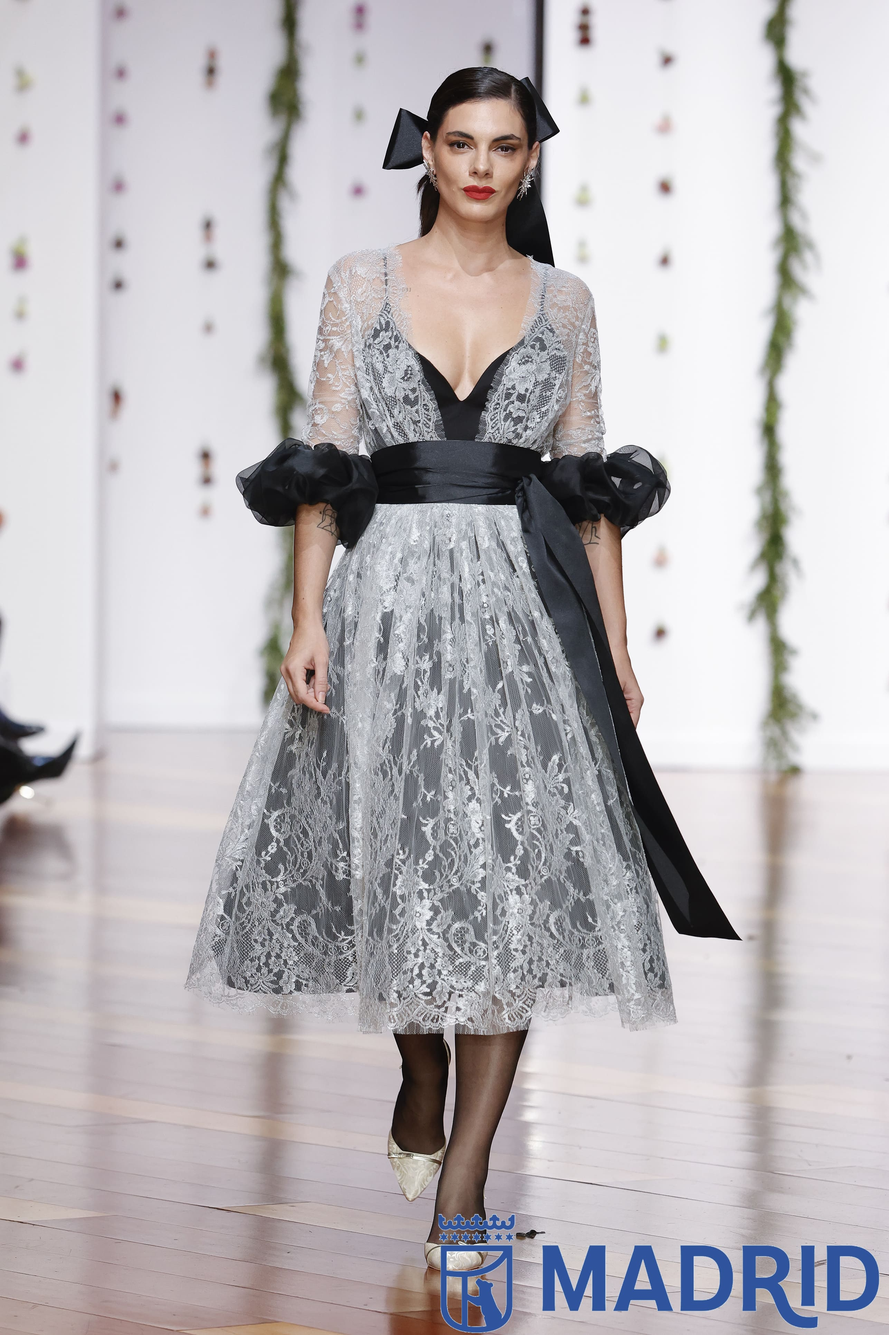
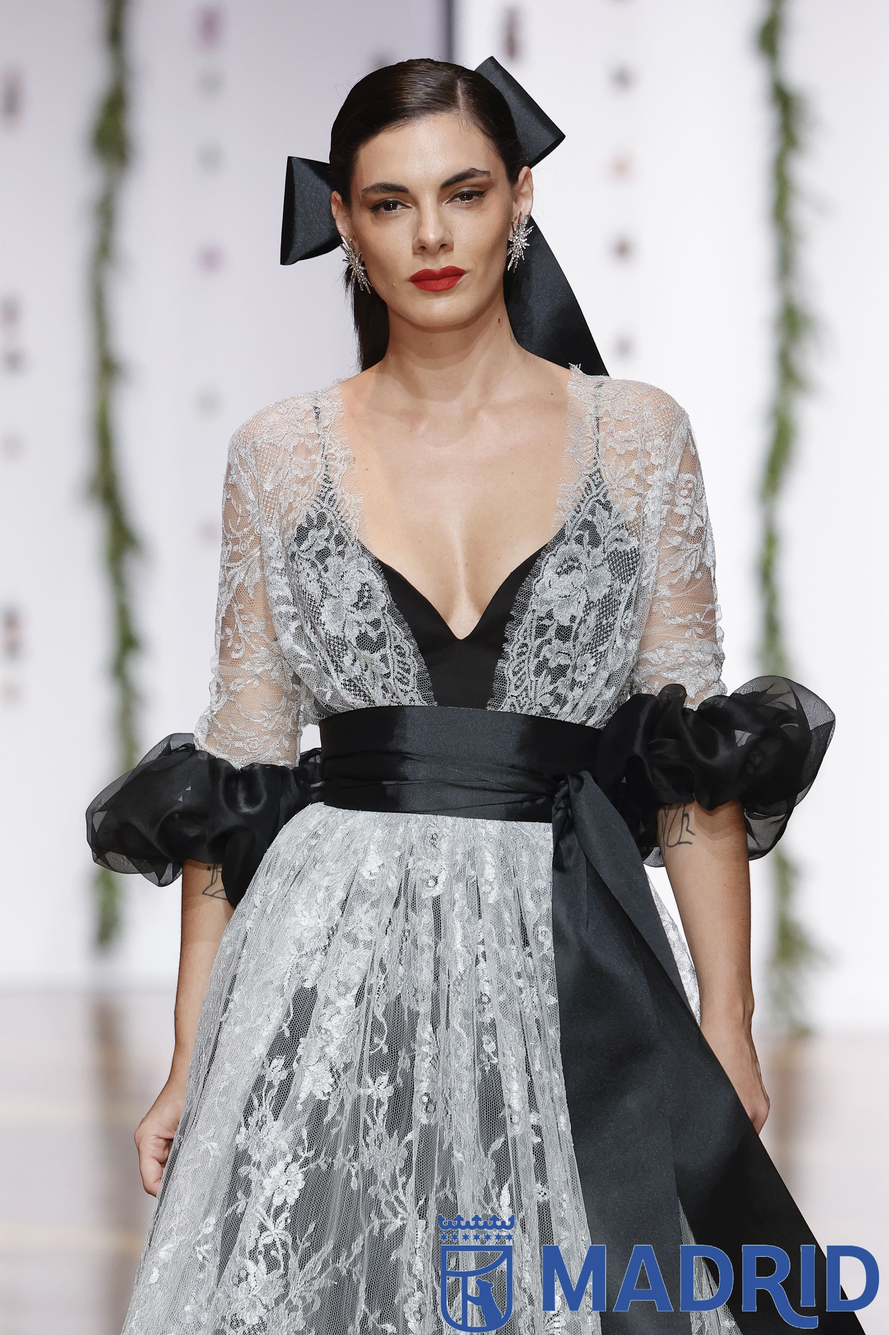
updated photo

diff --git a/assets/js/detalle.js b/assets/js/detalle.js
@@ -115,14 +115,31 @@ function loadDressIntoShowcase(dress) {
   }
 
   // 3. Resolver imágenes (ruta_imagen_1, ruta_imagen_2, ruta_imagen_3)
-  const img1 = resolveDetailImageUrl(dress.ruta_imagen_1);
-  const img2 = resolveDetailImageUrl(dress.ruta_imagen_2 || dress.ruta_imagen_1);
-  const img3 = resolveDetailImageUrl(dress.ruta_imagen_3 || dress.ruta_imagen_1);
+  const raw1 = dress.ruta_imagen_1 || '';
+  const raw2 = dress.ruta_imagen_2 || '';
+  const raw3 = dress.ruta_imagen_3 || '';
+
+  // Determinar vista trasera y zoom según convenciones del atelier (002 = zoom / detalle, 003 = trasera / contra parte)
+  let rawTrasera = raw3 || raw2 || raw1;
+  let rawZoom = raw2 || raw3 || raw1;
+
+  if (raw2.includes('003') || raw2.toLowerCase().includes('trasera') || raw2.toLowerCase().includes('back') || raw2.toLowerCase().includes('espalda')) {
+    rawTrasera = raw2;
+    rawZoom = raw3 || raw2;
+  } else if (raw3.includes('003') || raw3.toLowerCase().includes('trasera') || raw3.toLowerCase().includes('back') || raw3.toLowerCase().includes('espalda') ||
+             raw2.includes('002') || raw2.toLowerCase().includes('zoom') || raw2.toLowerCase().includes('detalle')) {
+    rawTrasera = raw3;
+    rawZoom = raw2;
+  }
+
+  const imgDelantera = resolveDetailImageUrl(raw1);
+  const imgTrasera = resolveDetailImageUrl(rawTrasera);
+  const imgZoom = resolveDetailImageUrl(rawZoom);
 
   // 4. Imagen principal grande (sin pie de foto)
   const mainImg = document.getElementById('main-dress-image');
   if (mainImg) {
-    mainImg.src = img1;
+    mainImg.src = imgDelantera;
     mainImg.alt = `${dressName} - Vista Principal`;
     mainImg.onerror = function() {
       this.onerror = null;
@@ -130,21 +147,21 @@ function loadDressIntoShowcase(dress) {
     };
   }
 
-  // 5. Miniaturas interactivas (3 imágenes reducidas: DELANTERA, ZOOM y TRASERA)
+  // 5. Miniaturas interactivas (3 imágenes reducidas: DELANTERA, TRASERA y ZOOM)
   const thumbsContainer = document.getElementById('thumbnails-container');
   if (thumbsContainer) {
     thumbsContainer.innerHTML = `
-      <button class="thumb-btn active" onclick="switchLargeImage('${img1}', this)" title="Ver vista delantera">
-        <img src="${img1}" alt="Vista delantera" onerror="this.src='../assets/images/romance/MARIA_DIEZMA_001.jpg'">
+      <button class="thumb-btn active" onclick="switchLargeImage('${imgDelantera}', this)" title="Ver vista delantera">
+        <img src="${imgDelantera}" alt="Vista delantera" onerror="this.src='../assets/images/romance/MARIA_DIEZMA_001.jpg'">
         <span class="thumb-caption">DELANTERA</span>
       </button>
-      <button class="thumb-btn" onclick="switchLargeImage('${img2}', this)" title="Ver zoom del vestido">
-        <img src="${img2}" alt="Vista zoom" onerror="this.src='../assets/images/romance/MARIA_DIEZMA_002.jpg'">
-        <span class="thumb-caption">ZOOM</span>
-      </button>
-      <button class="thumb-btn" onclick="switchLargeImage('${img3}', this)" title="Ver vista trasera">
-        <img src="${img3}" alt="Vista trasera" onerror="this.src='../assets/images/romance/MARIA_DIEZMA_003.jpg'">
+      <button class="thumb-btn is-contraparte" onclick="switchLargeImage('${imgTrasera}', this)" title="Ver vista trasera">
+        <img src="${imgTrasera}" alt="Vista trasera" onerror="this.src='../assets/images/romance/MARIA_DIEZMA_003.jpg'">
         <span class="thumb-caption">TRASERA</span>
+      </button>
+      <button class="thumb-btn" onclick="switchLargeImage('${imgZoom}', this)" title="Ver zoom del vestido">
+        <img src="${imgZoom}" alt="Vista zoom" onerror="this.src='../assets/images/romance/MARIA_DIEZMA_002.jpg'">
+        <span class="thumb-caption">ZOOM</span>
       </button>
     `;
   }

diff --git a/src/views/DetalleView.vue b/src/views/DetalleView.vue
@@ -40,12 +40,32 @@ async function fetchBackofficeDressDetail(nombre, coleccion) {
           back: 'Contra parte con espalda artesanal a medida',
           silhouette: 'Patronaje estructural adaptado a la silueta',
           time: '4 a 6 meses de confección en atelier',
-          images: {
-            front: d.ruta_imagen_1?.startsWith('/') ? d.ruta_imagen_1 : '/' + d.ruta_imagen_1,
-            back: d.ruta_imagen_2?.startsWith('/') ? d.ruta_imagen_2 : '/' + d.ruta_imagen_2,
-            detail: d.ruta_imagen_3?.startsWith('/') ? d.ruta_imagen_3 : '/' + d.ruta_imagen_3,
-            movement: d.ruta_imagen_3?.startsWith('/') ? d.ruta_imagen_3 : '/' + d.ruta_imagen_3
-          }
+          images: (() => {
+            const raw1 = d.ruta_imagen_1 || '';
+            const raw2 = d.ruta_imagen_2 || '';
+            const raw3 = d.ruta_imagen_3 || '';
+
+            let rawTrasera = raw3 || raw2 || raw1;
+            let rawZoom = raw2 || raw3 || raw1;
+
+            if (raw2.includes('003') || raw2.toLowerCase().includes('trasera') || raw2.toLowerCase().includes('back') || raw2.toLowerCase().includes('espalda')) {
+              rawTrasera = raw2;
+              rawZoom = raw3 || raw2;
+            } else if (raw3.includes('003') || raw3.toLowerCase().includes('trasera') || raw3.toLowerCase().includes('back') || raw3.toLowerCase().includes('espalda') ||
+                       raw2.includes('002') || raw2.toLowerCase().includes('zoom') || raw2.toLowerCase().includes('detalle')) {
+              rawTrasera = raw3;
+              rawZoom = raw2;
+            }
+
+            const clean = (p) => p ? (p.startsWith('/') ? p : '/' + p) : '';
+
+            return {
+              front: clean(raw1),
+              back: clean(rawTrasera),
+              detail: clean(rawZoom),
+              movement: clean(rawZoom)
+            };
+          })()
         }
       }
     }
@@ -128,7 +148,7 @@ watch(() => [route.query.nombre, route.query.coleccion], () => {
               >
             </div>
 
-            <!-- BOTONES DE MINIATURA (3 IMÁGENES: DELANTERA, ZOOM Y TRASERA) -->
+            <!-- BOTONES DE MINIATURA (3 IMÁGENES: DELANTERA, TRASERA Y ZOOM) -->
             <div class="thumbnails-bar">
               <button 
                 class="thumb-btn" 
@@ -140,21 +160,21 @@ watch(() => [route.query.nombre, route.query.coleccion], () => {
               </button>
 
               <button 
-                class="thumb-btn" 
-                :class="{ 'active': activeImageKey === 'detail' }"
-                @click="selectImage('detail', 'Vista Detalle & Zoom de Costura')"
-              >
-                <img :src="dress.images.detail" alt="Vista Zoom">
-                <span class="thumb-label">ZOOM</span>
-              </button>
-
-              <button 
                 class="thumb-btn is-contraparte" 
                 :class="{ 'active': activeImageKey === 'back' }"
                 @click="selectImage('back', 'Contra Parte · Espalda & Vista Trasera')"
               >
                 <img :src="dress.images.back" alt="Vista Trasera">
                 <span class="thumb-label">TRASERA</span>
+              </button>
+
+              <button 
+                class="thumb-btn" 
+                :class="{ 'active': activeImageKey === 'detail' }"
+                @click="selectImage('detail', 'Vista Detalle & Zoom de Costura')"
+              >
+                <img :src="dress.images.detail" alt="Vista Zoom">
+                <span class="thumb-label">ZOOM</span>
               </button>
             </div>
           </div>

diff --git a/README.md b/README.md
@@ -1,0 +1,150 @@
+# María Diezma Atelier · Web Oficial
+
+Sitio web oficial y catálogo interactivo de **María Diezma Atelier**, firma de alta costura nupcial y vestidos a medida en Madrid. Desarrollado como una Single Page Application (SPA) moderna, elegante y de alto rendimiento.
+
+---
+
+## ✨ Características
+
+- **Catálogo de Colecciones & Vestidos**: Exploración de piezas exclusivas de novia, fiesta y comunión con filtrado y vistas en detalle (`DetalleView.vue`).
+- **Sistema de Reserva de Cita Previa**:
+  - Selector de tipología (Novia, Fiesta, Comunión).
+  - Calendario interactivo mensual con cálculo dinámico de días hábiles.
+  - Selección de turnos de mañana y tarde.
+  - Vinculación inteligente de modelos consultados directamente al formulario de cita.
+- **Narrativa de Marca & Artesanía**:
+  - **Conóceme**: Biografía, trayectoria y filosofía del atelier.
+  - **Nuestro Proceso**: Etapas del proceso artesanal desde el primer boceto hasta la entrega final.
+  - **Prensa**: Publicaciones editoriales, reportajes y apariciones en medios especializados.
+- **Experiencia de Usuario (UX/UI)**:
+  - Diseño minimalista, elegante y 100% responsivo.
+  - Tipografías nobles (*Cinzel*, *Playfair Display*, *Plus Jakarta Sans*).
+  - Transiciones de página suaves y gestión de títulos dinámicos en el navegador.
+
+---
+
+## 🛠 Stack Tecnológico
+
+- **Framework**: [Vue 3](https://vuejs.org/) (Composition API con `<script setup>`)
+- **Enrutamiento**: [Vue Router 4](https://router.vuejs.org/) (Modo History, scroll suave y metadatos)
+- **Herramienta de Construcción (Bundler)**: [Vite 6](https://vitejs.dev/)
+- **Gestor de Paquetes**: [pnpm](https://pnpm.io/)
+- **Estilos**: CSS modular y responsivo optimizado para alta fidelidad visual
+
+---
+
+## 📁 Estructura del Proyecto
+
+```text
+MariaDiezmaWeb/
+├── public/                 # Archivos estáticos públicos
+├── src/
+│   ├── assets/             # Estilos globales (CSS) e imágenes
+│   │   ├── css/            # Estilos globales del proyecto (main.css)
+│   │   └── images/         # Recursos gráficos y fotografías del atelier
+│   ├── components/         # Componentes Vue reutilizables
+│   │   ├── DressCard.vue   # Tarjeta de presentación de vestido/modelo
+│   │   ├── FaqAccordion.vue# Acordeón de preguntas frecuentes
+│   │   ├── TheNavbar.vue   # Barra de navegación principal y menú móvil
+│   │   └── TheFooter.vue   # Pie de página con enlaces y contacto
+│   ├── config/             # Configuración centralizada de la aplicación
+│   │   └── env.js          # Acceso y fallback de variables de entorno Vite
+│   ├── data/               # Fuentes de datos locales
+│   │   └── dresses.js      # Catálogo de vestidos, especificaciones y colecciones
+│   ├── router/             # Configuración de Vue Router y navegación
+│   │   └── index.js
+│   ├── views/              # Vistas principales de la aplicación (Páginas)
+│   │   ├── HomeView.vue        # Portada principal
+│   │   ├── ConocemeView.vue    # Historia y trayectoria
+│   │   ├── ColeccionesView.vue # Catálogo general de vestidos
+│   │   ├── DetalleView.vue     # Ficha técnica y galería de cada vestido
+│   │   ├── ProcesoView.vue     # Explicación del proceso de confección a medida
+│   │   ├── CitaView.vue        # Gestor interactivo de solicitud de cita
+│   │   └── PrensaView.vue      # Artículos y apariciones en prensa
+│   ├── App.vue             # Componente raíz con layout principal
+│   └── main.js             # Punto de entrada de la aplicación Vue
+├── .env.example            # Plantilla de variables de entorno
+├── index.html              # HTML base con precarga de fuentes y metadatos SEO
+├── package.json            # Scripts y dependencias del proyecto
+├── vite.config.js          # Configuración de Vite y alias (@/ -> src/)
+└── README.md
+```
+
+---
+
+## 🚀 Puesta en Marcha Local
+
+### Prerrequisitos
+
+- **Node.js**: versión 18 o superior recomendada.
+- **pnpm**: versión 8 o superior (o npm / yarn).
+
+### 1. Clonar el repositorio
+
+```bash
+git clone <URL_DEL_REPOSITORIO>
+cd MariaDiezmaWeb
+```
+
+### 2. Instalar dependencias
+
+```bash
+pnpm install
+```
+
+### 3. Configurar variables de entorno
+
+Copia el archivo de plantilla `.env.example` a `.env.local` (o `.env`):
+
+```bash
+cp .env.example .env.local
+```
+
+Configura los valores según corresponda:
+
+| Variable | Descripción | Valor por Defecto |
+| :--- | :--- | :--- |
+| `VITE_ENV` | Entorno de ejecución (`development`, `production`) | `development` |
+| `VITE_APP_TITLE` | Título global de la aplicación | `María Diezma Atelier` |
+| `VITE_BACKOFFICE_URI` | Endpoint base de la API o servidor de gestión de citas | `http://localhost:8080/api` |
+
+### 4. Iniciar el servidor de desarrollo
+
+```bash
+pnpm dev
+```
+
+La aplicación estará disponible en `http://localhost:3000`.
+
+---
+
+## 📜 Scripts Disponibles
+
+En el `package.json` se definen los siguientes comandos:
+
+| Comando | Acción |
+| :--- | :--- |
+| `pnpm dev` | Inicia el servidor de desarrollo local con Hot Module Replacement (HMR). |
+| `pnpm build` | Compila y optimiza el proyecto para producción en la carpeta `dist/`. |
+| `pnpm preview` | Lanza un servidor local para previsualizar el resultado de la carpeta `dist/`. |
+
+---
+
+## 🌐 Despliegue en Producción
+
+Para desplegar la aplicación en servidores estáticos (como Nginx, Vercel, Netlify o Cloudflare Pages):
+
+1. Genera los archivos de producción:
+   ```bash
+   pnpm build
+   ```
+2. Despliega la carpeta `dist/`.
+
+> [!NOTE]
+> Al ser una **Single Page Application (SPA)** con modo `createWebHistory()`, asegúrate de configurar el servidor web para redirigir todas las rutas a `index.html` para evitar errores 404 al recargar páginas internas.
+
+---
+
+## 📄 Licencia
+
+Todos los derechos reservados © María Diezma Atelier.
